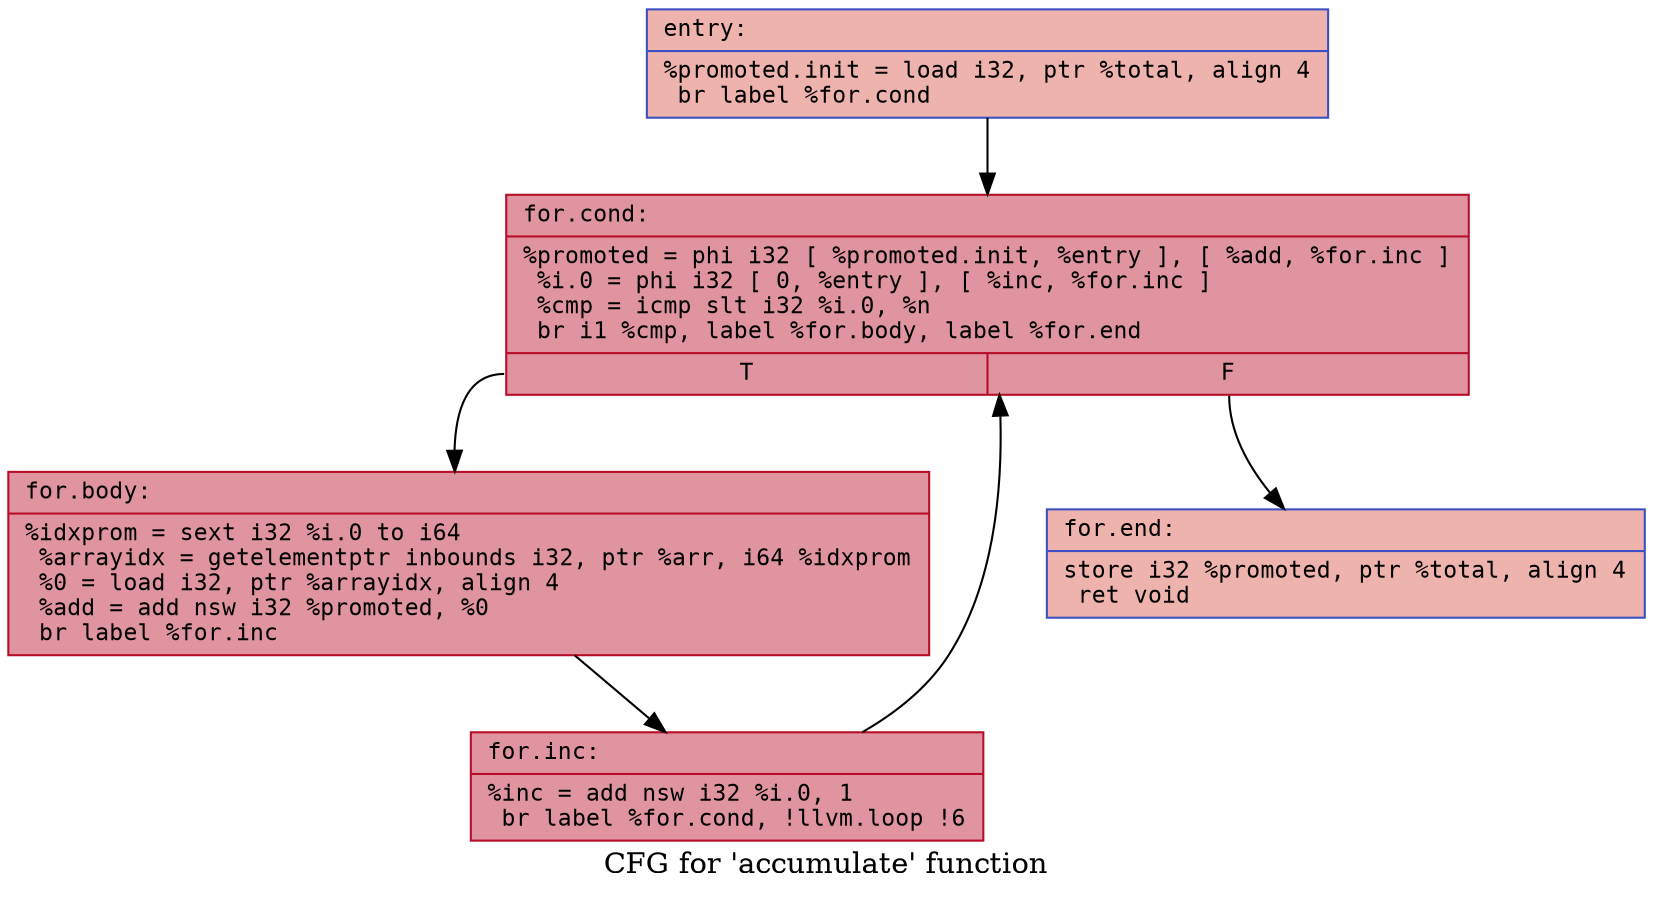
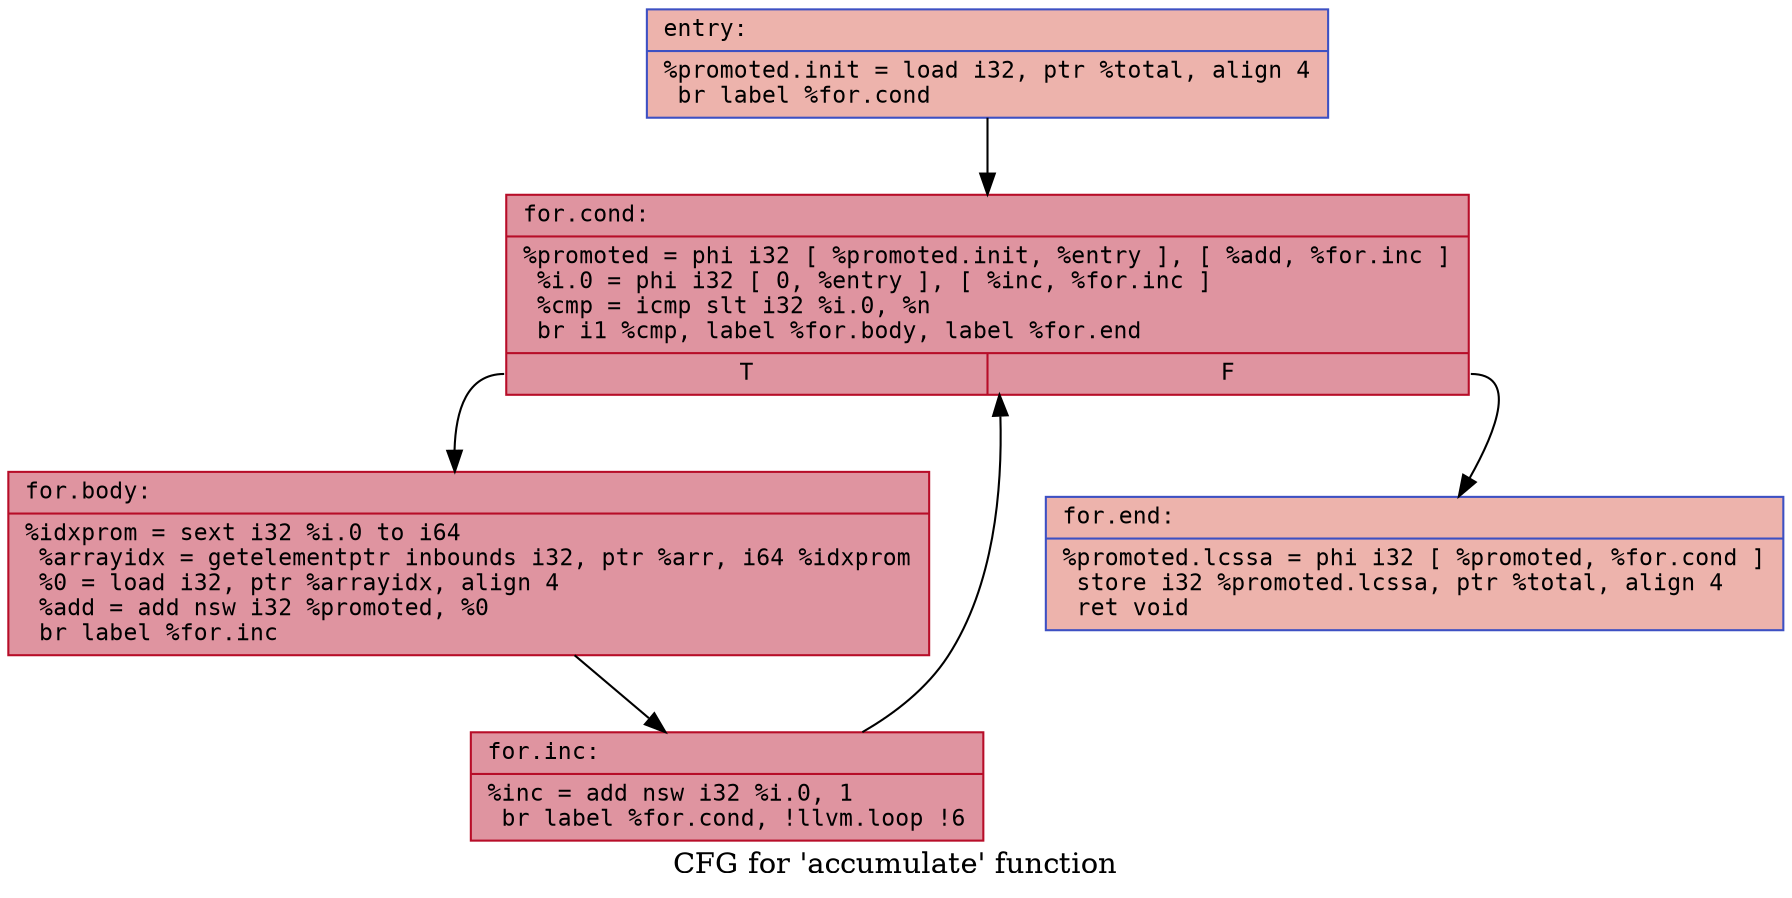
feat(licm): add hoist_reciprocal example

diff --git a/examples/licm/hoist_reciprocal/input.c b/examples/licm/hoist_reciprocal/input.c
@@ -1,0 +1,5 @@
+void normalize(float * __restrict__ arr, int n, float scale) {
+    for (int i = 0; i < n; i++) {
+        arr[i] = arr[i] / scale;
+    }
+}
